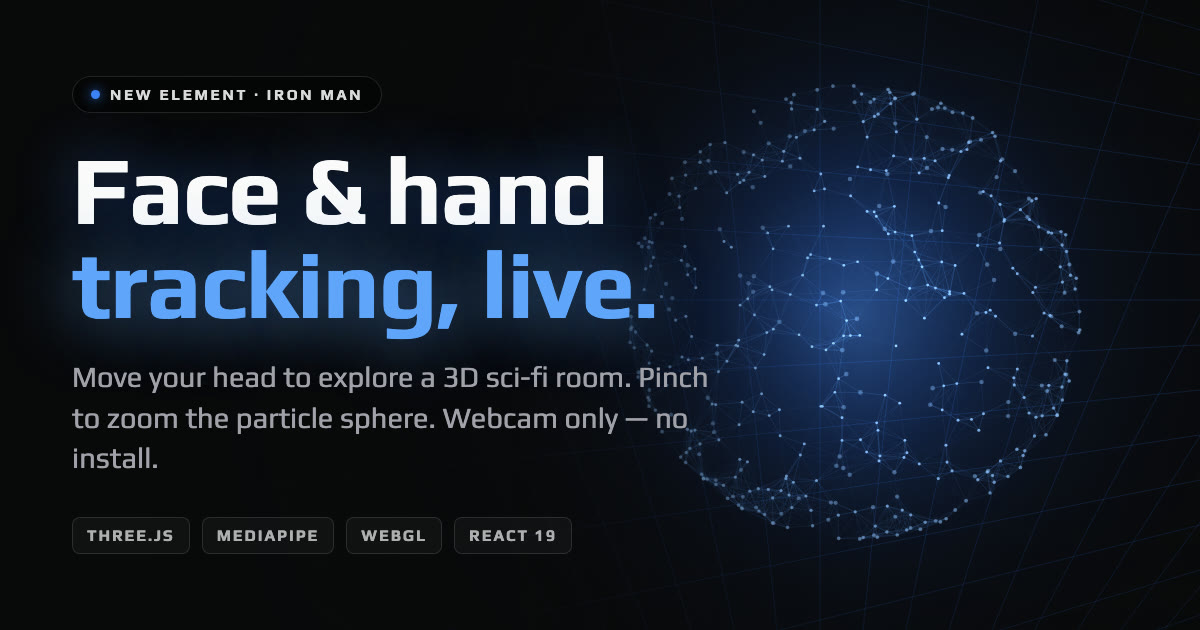
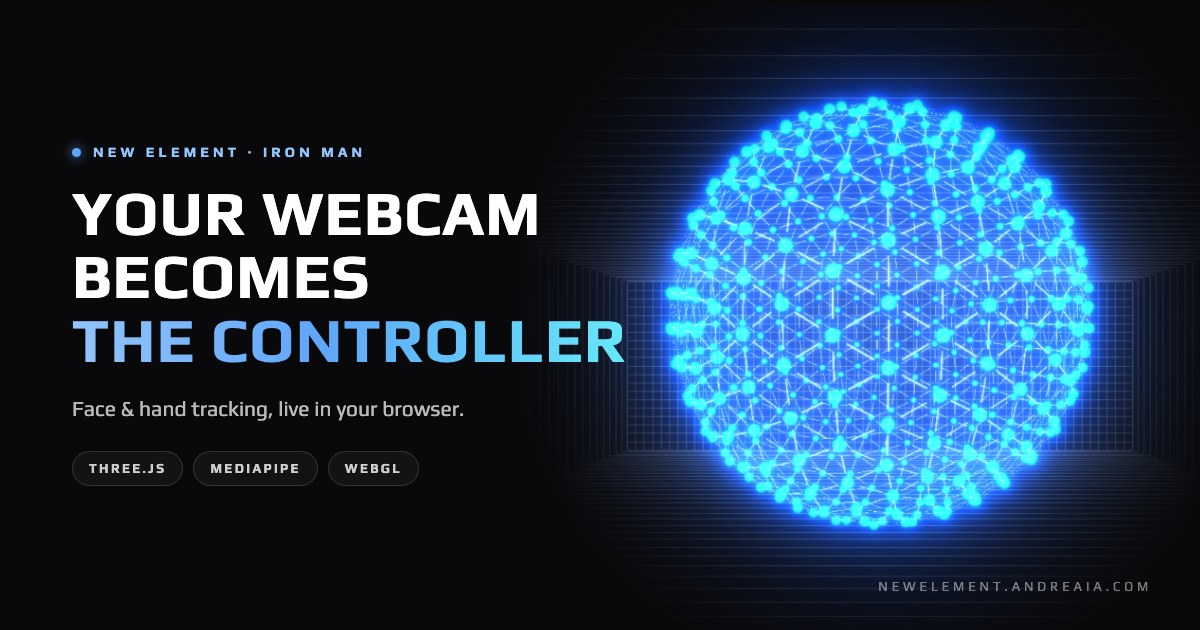
Redesign the Open Graph image to match the entry screen
Real render of the sphere on the right, the entry screen headline and
style on the left, no overlap. Image alt text updated to the new headline.

diff --git a/index.html b/index.html
@@ -44,7 +44,7 @@
   <meta property="og:image:width" content="1200">
   <meta property="og:image:height" content="630">
   <meta property="og:image:alt"
-    content="A glowing blue particle sphere inside a dark 3D grid room, next to the words Face and hand tracking, live.">
+    content="A glowing blue particle sphere inside a dark 3D grid room, next to the words Your webcam becomes the controller.">
   <meta property="og:locale" content="en_US">
 
   <!-- Twitter / X -->
@@ -54,7 +54,7 @@
     content="Your webcam becomes the controller. Move your head to explore the lab, pinch your fingers to shape the element. A real-time WebGL tribute to Iron Man 2.">
   <meta name="twitter:image" content="https://newelement.andreaia.com/og-image.jpg">
   <meta name="twitter:image:alt"
-    content="A glowing blue particle sphere inside a dark 3D grid room, next to the words Face and hand tracking, live.">
+    content="A glowing blue particle sphere inside a dark 3D grid room, next to the words Your webcam becomes the controller.">
 
   <!-- Machine-readable summary for AI answer engines -->
   <link rel="alternate" type="text/plain" href="/llms.txt" title="llms.txt - plain-text summary for language models">
